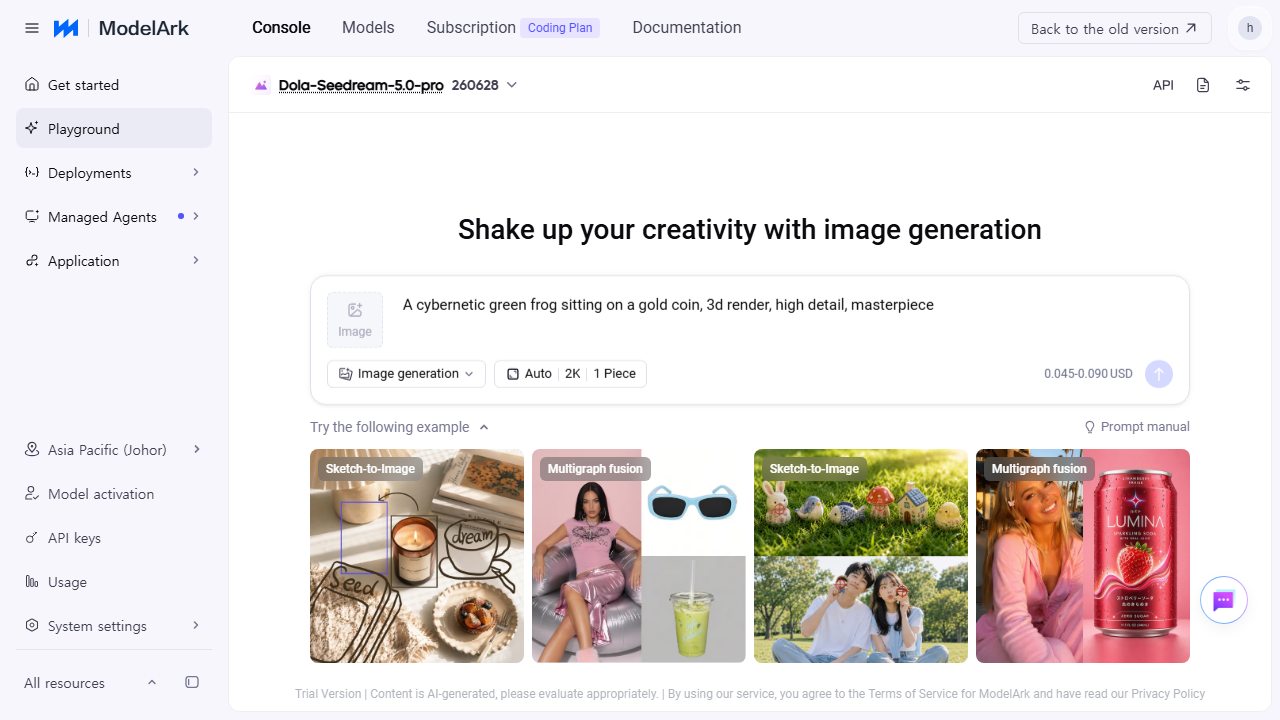
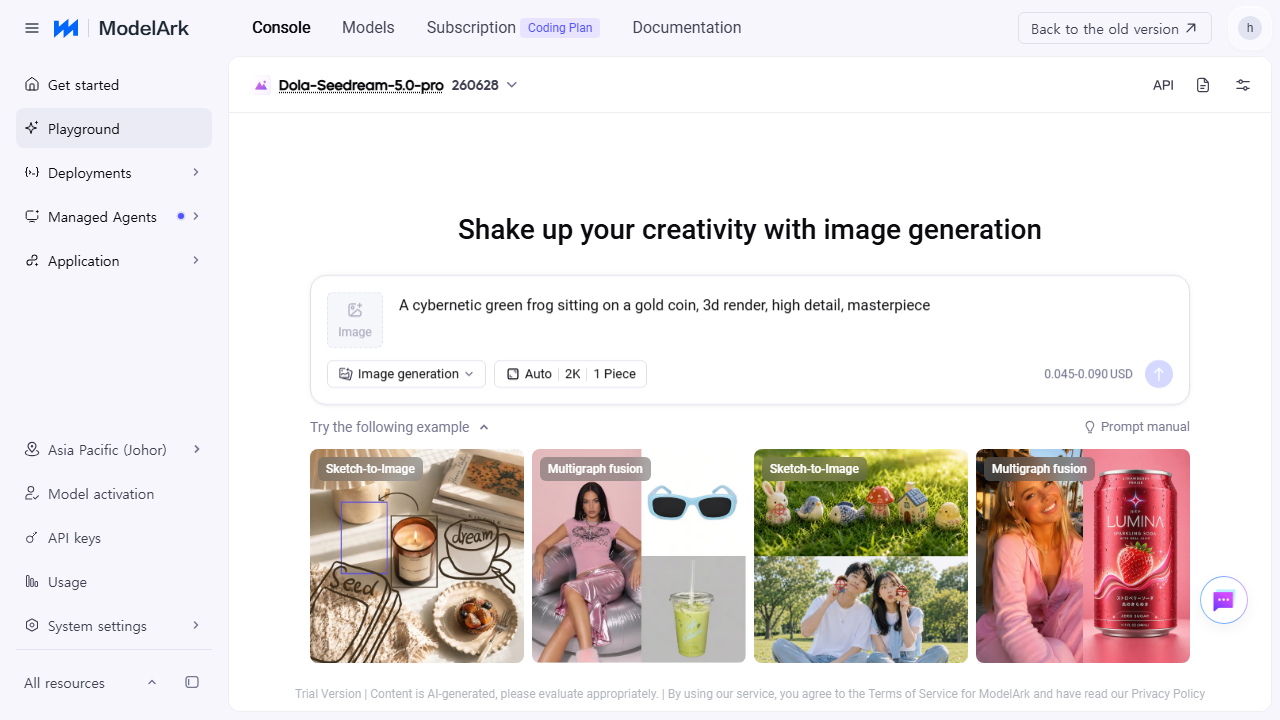
auto: Cowork/CLI 동기화 2026-07-17 18:45

Changed region(s): [[0.3125, 0.3972, 0.7188, 0.4583]]

diff --git a/63_youtube_creator/pipeline/byteplus_auto.py b/63_youtube_creator/pipeline/byteplus_auto.py
@@ -11,7 +11,7 @@ async def main():
         print(f"오류: 쿠키 파일을 찾을 수 없습니다. 경로: {COOKIE_PATH}")
         return
 
-    print("BytePlus Seedream 이미지 생성 자동화 (인간 타이핑 모방 딜레이 적용)")
+    print("BytePlus Seedream 이미지 생성 자동화 (예제 바인딩 우회법) 테스트")
     async with async_playwright() as p:
         browser = await p.chromium.launch(
             headless=True,
@@ -59,66 +59,68 @@ async def main():
         await image_tab.click()
         await page.wait_for_timeout(4000)
         
-        # Tiptap 에디터 입력 및 전송 버튼 클릭
         try:
-            # 에디터 내부의 실제 paragraph (p) 태그 또는 에디터 본체 포커스
-            editor_p = page.locator(".tiptap.ProseMirror p").first
-            editor_main = page.locator(".tiptap.ProseMirror")
-            
-            print("에디터 포커싱 (p 태그 클릭)...")
-            if await editor_p.count() > 0:
-                await editor_p.click()
+            # 1. 첫 번째 예제 이미지 카드 클릭하여 이미지 참조 바인딩
+            # 예제 영역에 있는 첫 번째 img 태그 클릭
+            # (기존 페이지 내의 이미지 중 예제 카드 영역 이미지 타겟팅)
+            print("예제 이미지 카드 클릭 시도 (이미지 바인딩)...")
+            example_img = page.locator("img").first
+            if await example_img.count() > 0:
+                await example_img.click()
+                print("예제 이미지 클릭 성공.")
+                await page.wait_for_timeout(3000)
             else:
-                await editor_main.click()
+                print("예제 이미지를 찾을 수 없습니다.")
+                
+            # 2. 에디터 텍스트 비우기 및 새로운 프롬프트 타이핑
+            editor = page.locator(".tiptap.ProseMirror")
+            print("에디터 포커싱 및 기존 텍스트 전체 선택 후 삭제...")
+            await editor.click()
             await page.wait_for_timeout(1000)
             
-            # 실제 인간의 타이핑 속도를 모사하기 위해 글자당 80ms 딜레이 부여
+            # 기존 텍스트 삭제 (Ctrl+A -> Backspace)
+            await page.keyboard.press("Control+A")
+            await page.keyboard.press("Backspace")
+            await page.wait_for_timeout(1000)
+            
+            # 새 프롬프트 한 글자씩 입력
             prompt = "A cybernetic green frog sitting on a gold coin, 3d render, high detail, masterpiece"
-            print(f"인간 타이핑 모방 입력 중 (딜레이 80ms): {prompt}")
-            await page.keyboard.type(prompt, delay=80)
-            await page.wait_for_timeout(2000) # 타이핑 후 상태 변경 대기
+            print(f"새 프롬프트 입력 중: {prompt}")
+            await page.keyboard.type(prompt, delay=50)
+            await page.wait_for_timeout(2000)
             
-            # 디버깅용 현재 입력 상태 화면 캡처
-            await page.screenshot(path=r"D:\AI\63_youtube_creator\pipeline\output\byteplus_seedream_after_typing.png")
-            print("타이핑 완료 직후 화면 스크린샷 저장")
-            
-            # 전송 버튼 활성화 상태 체크 (최대 5초 대기)
+            # 3. 전송 버튼 상태 체크
             submit_btn = page.locator("[data-testid='image-sender-submit-button']")
-            print("전송 버튼 활성화 여부 확인 중...")
-            button_activated = False
-            for i in range(10):
-                is_disabled = await submit_btn.evaluate("btn => btn.disabled")
-                if not is_disabled:
-                    print("전송 버튼 활성화 완료!")
-                    button_activated = True
-                    break
-                print(f"버튼 대기 중 ({i+1}/10)...")
-                # 버튼 비활성화를 풀기 위해 추가적인 스페이스바 입력도 시도해봅니다.
-                await page.keyboard.type(" ")
-                await page.wait_for_timeout(500)
+            is_disabled = await submit_btn.evaluate("btn => btn.disabled")
+            print(f"전송 버튼 비활성화 상태: {is_disabled}")
             
-            if button_activated:
-                print("전송 버튼 클릭 격발...")
+            # 스크린샷 캡처
+            after_binding_screenshot = r"D:\AI\63_youtube_creator\pipeline\output\byteplus_seedream_after_binding.png"
+            await page.screenshot(path=after_binding_screenshot)
+            print(f"바인딩 및 입력 완료 후 스크린샷 저장: {after_binding_screenshot}")
+            
+            # 만약 비활성화가 풀렸다면 클릭하여 이미지 생성 진행
+            if not is_disabled:
+                print("전송 버튼이 활성화되었습니다! 클릭 격발...")
                 await submit_btn.click()
                 await page.wait_for_timeout(5000)
                 
-                # 생성 중 화면 스크린샷
+                # 생성 중 스크린샷
                 generating_screenshot = r"D:\AI\63_youtube_creator\pipeline\output\byteplus_seedream_generating.png"
                 await page.screenshot(path=generating_screenshot)
                 print(f"생성 중 화면 스크린샷 저장: {generating_screenshot}")
                 
-                # 생성 대기 (대략 30초)
+                # 생성 완료 대기 (30초)
                 print("생성 완료 대기 중 (30초)...")
                 await page.wait_for_timeout(30000)
                 
-                # 완성 화면 캡처
+                # 완료 스크린샷
                 done_screenshot = r"D:\AI\63_youtube_creator\pipeline\output\byteplus_seedream_done.png"
                 await page.screenshot(path=done_screenshot)
                 print(f"완성 화면 스크린샷 저장: {done_screenshot}")
             else:
-                print("오류: 전송 버튼이 여전히 활성화되지 않았습니다.")
-                await page.screenshot(path=r"D:\AI\63_youtube_creator\pipeline\output\byteplus_seedream_generate_error.png")
-            
+                print("오류: 예제를 바인딩했음에도 전송 버튼이 여전히 활성화되지 않았습니다.")
+                
         except Exception as e:
             print(f"작업 처리 중 오류 발생: {e}")
             await page.screenshot(path=r"D:\AI\63_youtube_creator\pipeline\output\byteplus_seedream_generate_error.png")

diff --git a/AI_hub/status/코니_브리핑_최신.md b/AI_hub/status/코니_브리핑_최신.md
@@ -7,8 +7,8 @@
 
 ## 만복 현재 상태
 - 상태: alive
-- 마지막 갱신: 2026-07-17T18:43:56
-- 세션 시작: 2026-07-17T17:38:36
+- 마지막 갱신: 2026-07-17T18:44:31
+- 세션 시작: 2026-07-17T17:39:29
 
 ## 만복 현재 작업
 - 작업: None

diff --git a/AI_hub/status/inbox.md b/AI_hub/status/inbox.md
@@ -1,5 +1,5 @@
 # 📬 3AI 통합 수신함
-> 자동 갱신: 2026-07-17 18:43:56 (master_watch.py)
+> 자동 갱신: 2026-07-17 18:44:31 (master_watch.py)
 > **세션 시작 시 이 파일만 읽으면 모든 창구 누락 제로**
 
 ---
